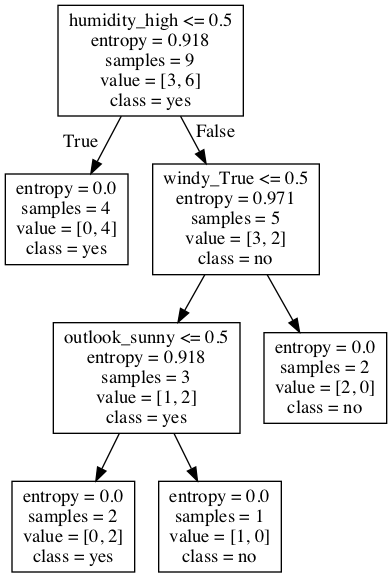
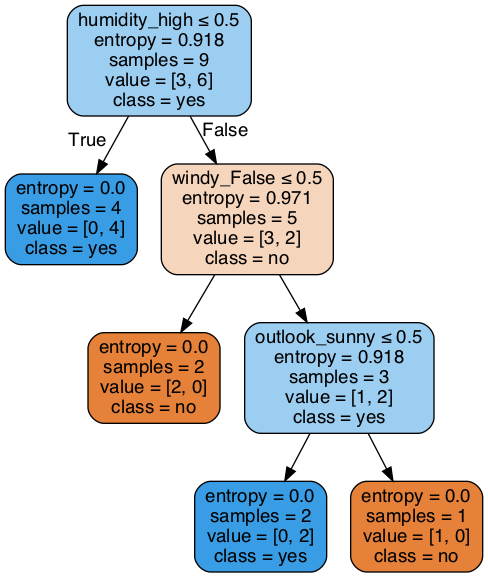
update readme

diff --git a/README.md b/README.md
@@ -288,7 +288,8 @@ You can see what rules the tree learned by plotting this decision tree. To do th
 # Create DOT data
 dot_data = export_graphviz(clf, out_file=None, 
                            feature_names=ohe_df.columns,  
-                           class_names=np.unique(y).astype('str'))
+                           class_names=np.unique(y).astype('str'), 
+                           filled=True, rounded=True, special_characters=True)
 
 # Draw graph
 graph = graph_from_dot_data(dot_data)  
